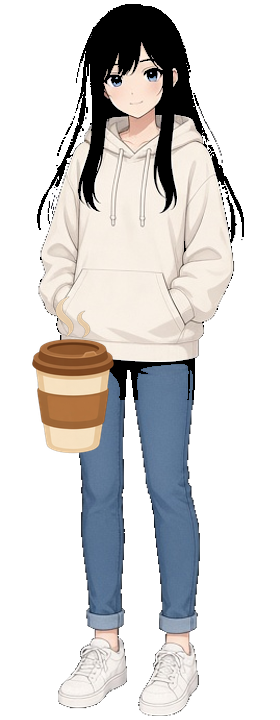
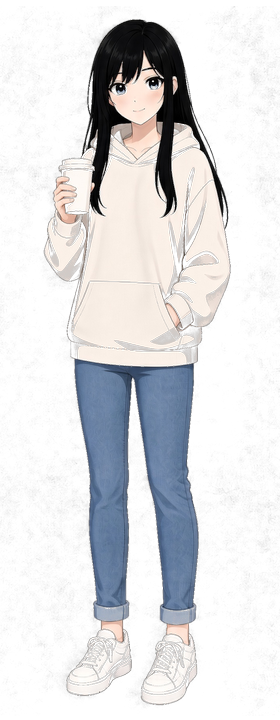
v1.4.41 Face holds: real grip, hand-sized props
Replace beer/coffee/cigarette Face sprites with rembg cutouts
(right hand out of pocket, left in pocket, props at hand scale).
Bump HOLD_POSE_V to hold7.

Changed region(s): [[0.1143, 0.0, 0.8857, 1.0]]

diff --git a/src/ui/app.ts b/src/ui/app.ts
@@ -287,7 +287,7 @@ function playerAvatarSrc(): string {
   return getAFace() === "camera" ? "avatars/player-face.png?v=face7" : "avatars/player.png?v=a1";
 }
 
-const HOLD_POSE_V = "hold6";
+const HOLD_POSE_V = "hold7";
 
 function playerFullSrc(prop?: ShopPropId | null): string {
   const face = getAFace() === "camera";

diff --git a/public/sw.js b/public/sw.js
@@ -1,5 +1,5 @@
 /* AA Mahjong asset cache — Cache API, not localStorage */
-const CACHE = "aa-mahjong-assets-1.4.40";
+const CACHE = "aa-mahjong-assets-1.4.41";
 const PRECACHE = [
   "avatars/left.png",
   "avatars/opposite.png",

diff --git a/src/main.ts b/src/main.ts
@@ -15,7 +15,7 @@ function registerAssetCache(): void {
 }
 
 function warmImages(): void {
-  const hold = "hold6";
+  const hold = "hold7";
   const urls = [
     "avatars/player.png?v=a1",
     "avatars/player-face.png?v=face7",

diff --git a/src/version.ts b/src/version.ts
@@ -1,2 +1,2 @@
 /** Single app version — keep in sync with package.json, VERSION, public/sw.js CACHE. */
-export const APP_VERSION = "1.4.40";
+export const APP_VERSION = "1.4.41";
